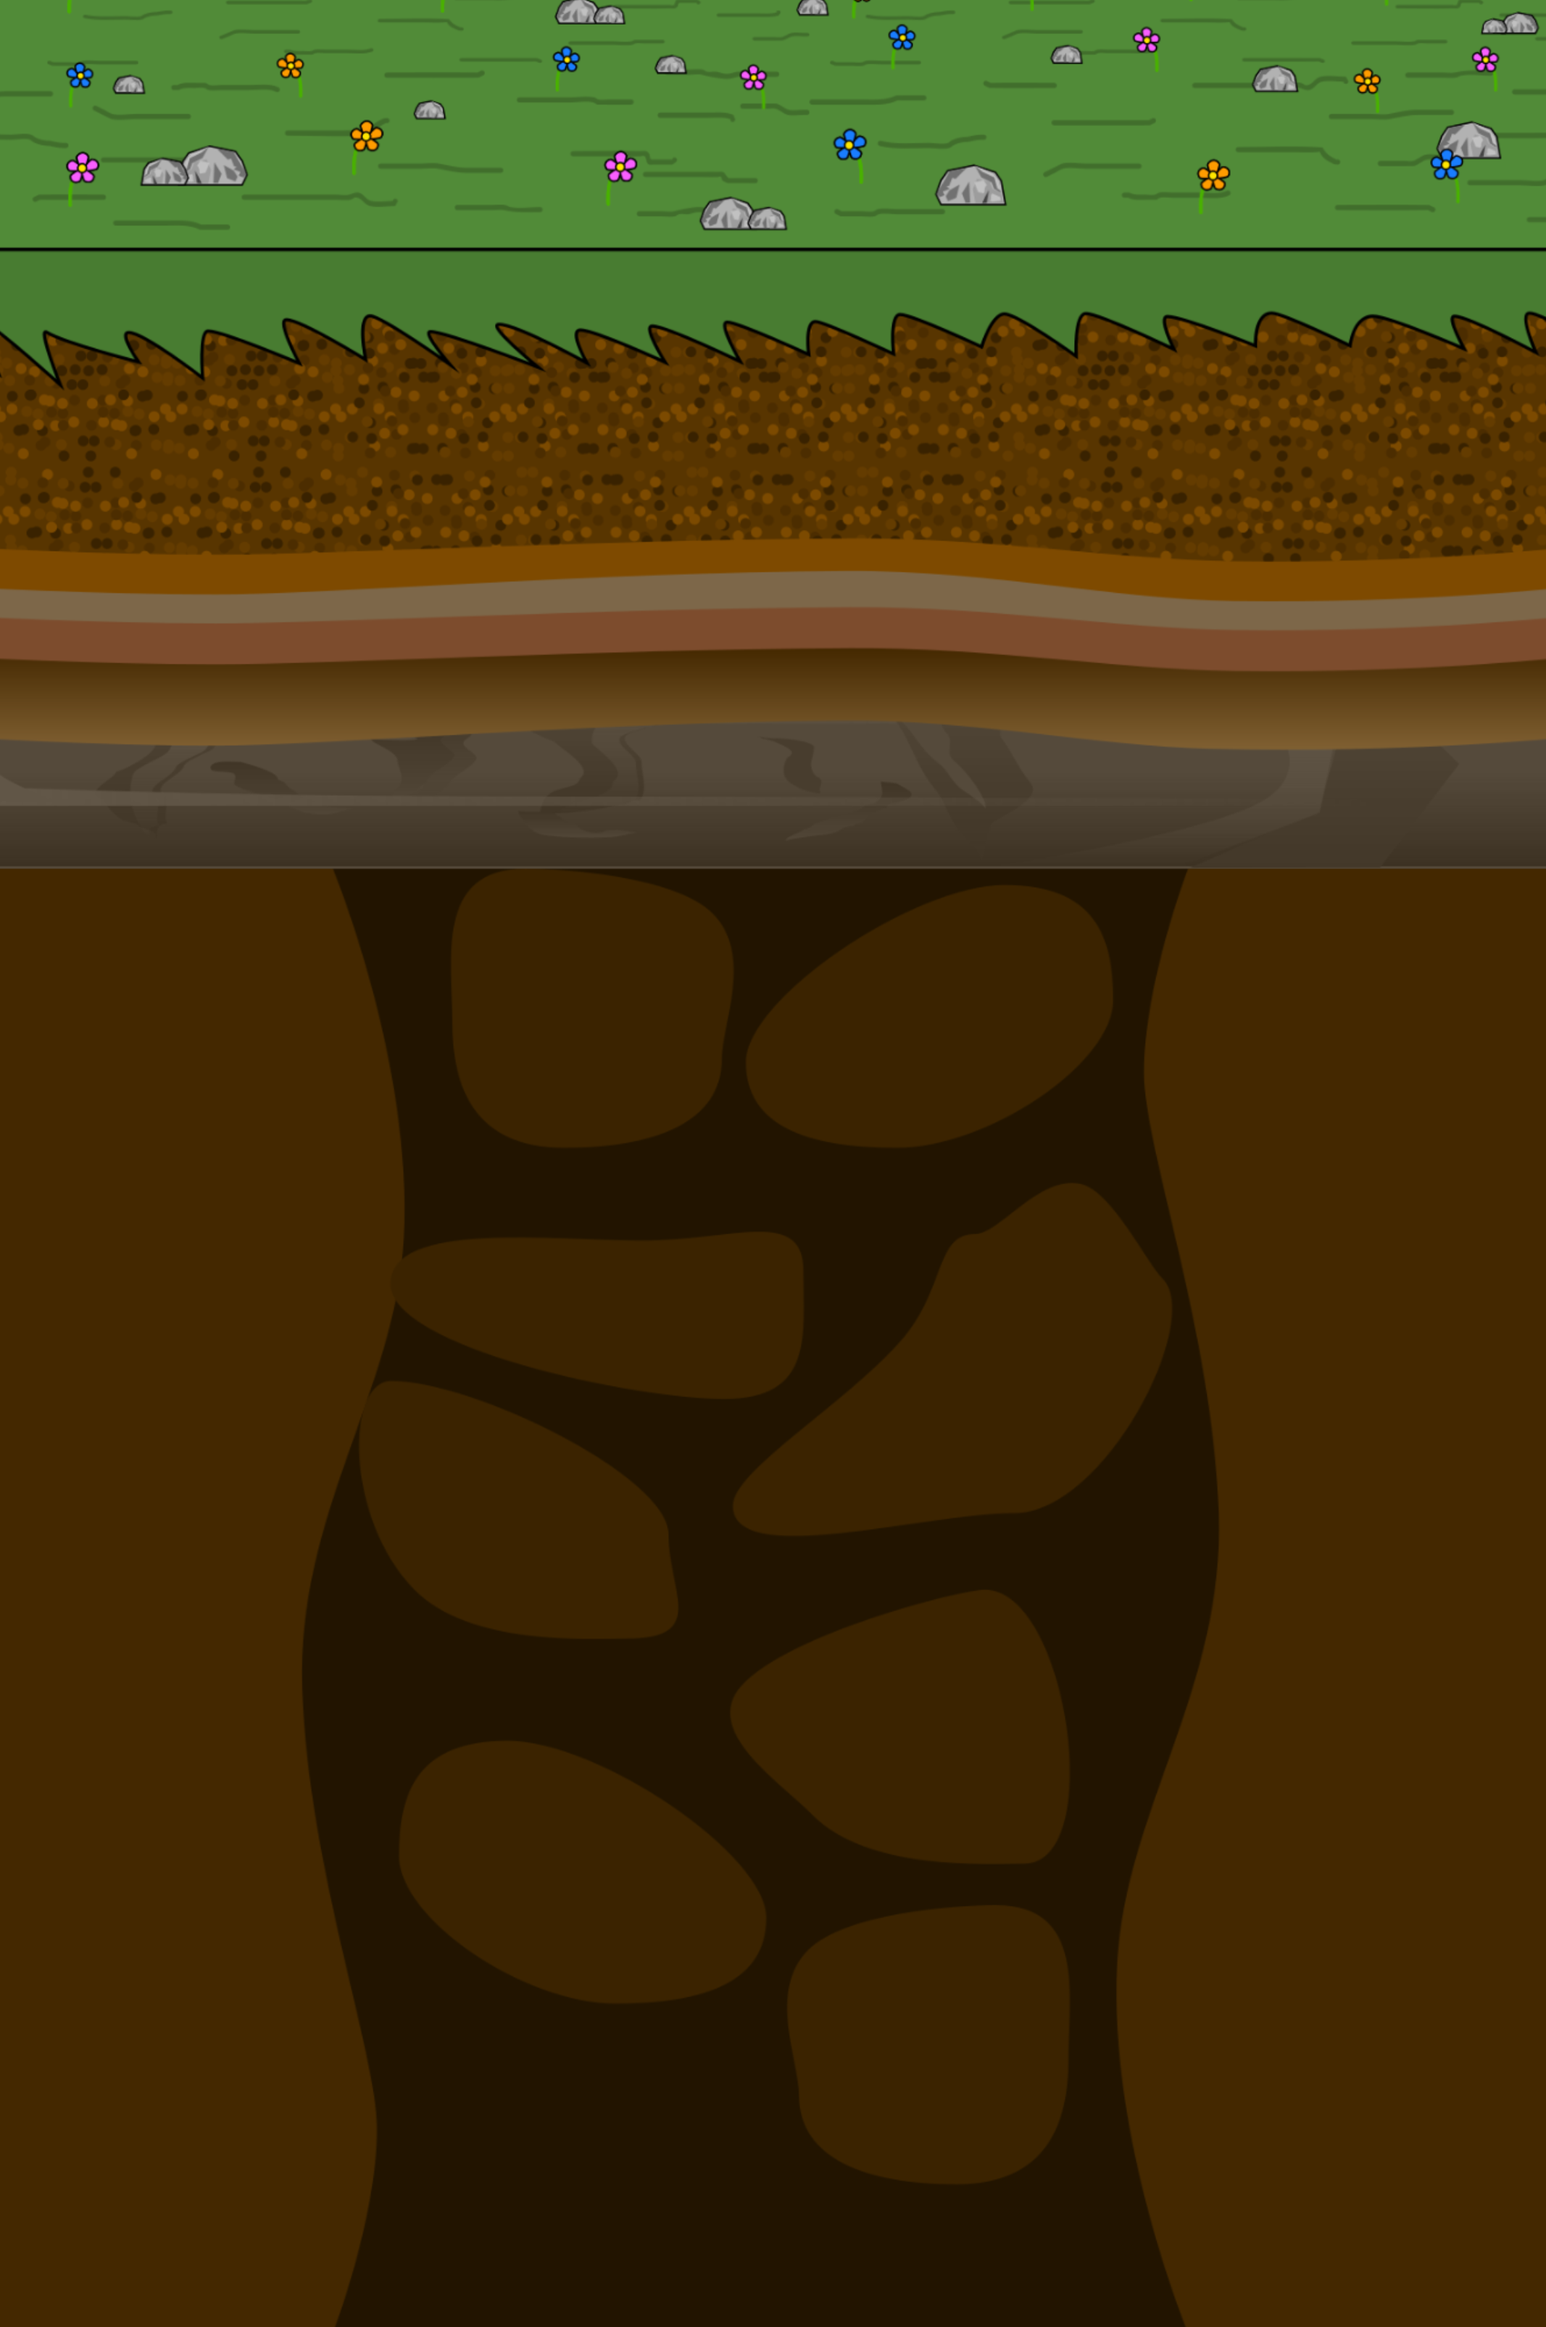
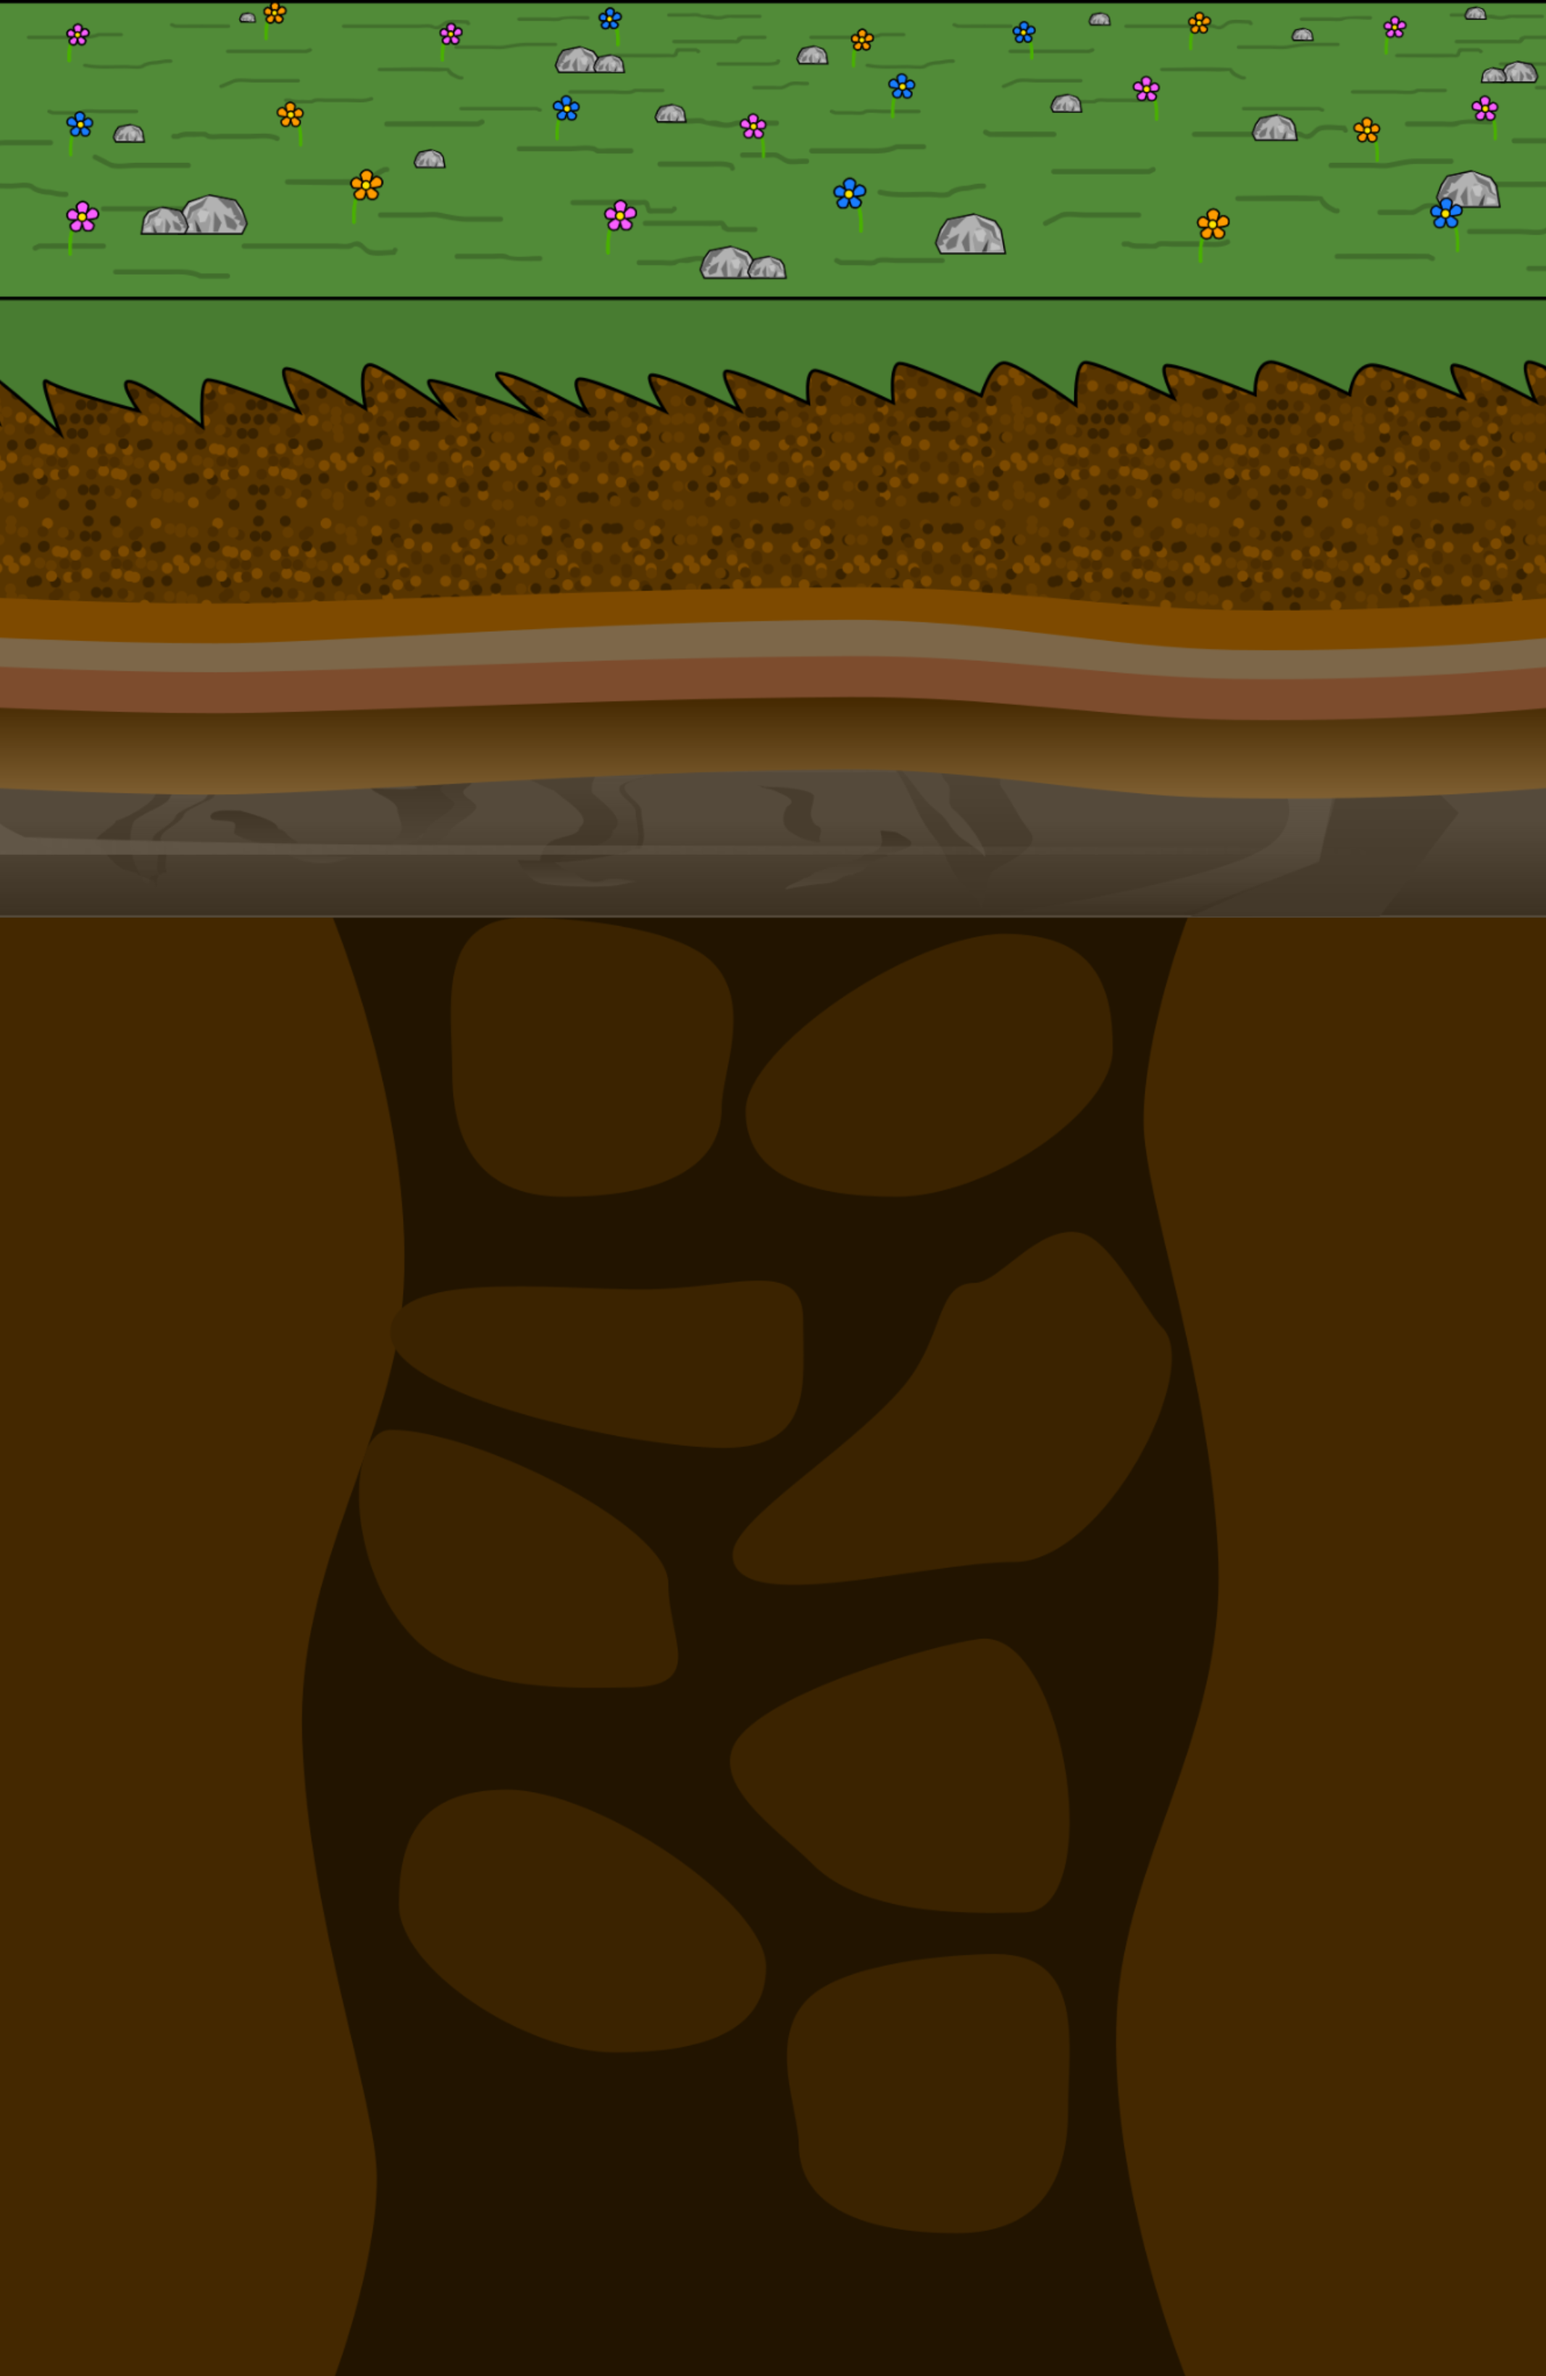
I added a sky

diff --git a/index.html b/index.html
@@ -3,6 +3,7 @@
     <link href="style.css" rel="stylesheet">
 </head>
 <body>
+    <div id="sky"></div>
     <div id="forest">
         <img src="toplayer.png" class="top"><br>
         <img src="middlelayer.png" class="middle"><br>

diff --git a/style.css b/style.css
@@ -6,8 +6,10 @@ body{
     background-repeat: no-repeat;
     background-attachment: fixed;
 }
+#sky{
+    height: 200px;
+}
 #forest{
-    margin: auto;
     width: 100%;
 }
 #forest img{
